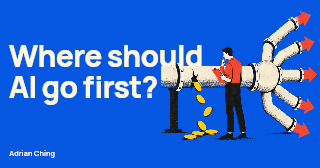
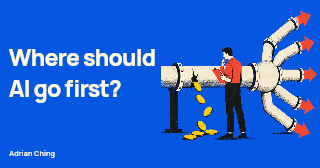
Fit both cover headlines by reducing size only (ADR-462)
Adrian's ADR-460 direction was to reduce the headline font size rather than
change the approved wording. Both covers overran the locked x=583 headline box
at 112px once ADR-461 made the face render as a real ExtraBold 800.

Each cover now uses the largest whole-pixel size at or below 112px for which
every line's measured ink ends at or before x=583:

  AC-033  86px   "Where should" ink right x=579 (87px overruns at x=586)
  AC-034  107px  "bottleneck"   ink right x=582 (108px overruns at x=587)

Wording, weight 800, -3px tracking, origin x=33, baselines y=250/y=366, colour
#fff7df, the author line and the flat #0557e1 field are all unchanged. The
standard keeps 112px as the default and maximum, and now records that approved
wording may take the largest smaller size needed to clear x=583.

verify-ac-034.mjs no longer just reports the overrun. It fails the build if a
line leaves the box, if a cover could have used a larger size, if a renderer,
the tokens or the master SVG disagree on the fitted value, or if the shipped
AC-034 cover has drifted from the exported baseline WebP.

Changed region(s): [[0.0312, 0.2679, 0.6562, 0.4167], [0.0312, 0.4464, 0.5, 0.625]]

diff --git a/scripts/ARTICLES.md b/scripts/ARTICLES.md
@@ -179,7 +179,12 @@ and `verify-ac-034.mjs` is the check that has to pass before a cover ships.
   yellow and vermilion accents over deep navy outlines and shadows.
 - **Typography.** Headline in Manrope ExtraBold 800 at 112px, 116px line height,
   −3px tracking, `#fff7df`, sentence case, at most two lines, origin x=33 with
-  baselines y=250 and y=366. Attribution is `Adrian Ching` in Manrope SemiBold
+  baselines y=250 and y=366. 112px is the default and the maximum. When approved
+  wording overruns the box at 112px, take the size down to the largest whole
+  pixel value that keeps every line's ink at or before x=583, and record that
+  value in the renderer and its provenance. Weight, tracking, colour, origin and
+  baselines never move to force a fit. AC-033 fits at 86px, AC-034 at 107px.
+  Attribution is `Adrian Ching` in Manrope SemiBold
   600 at 27px, +0.5px tracking, origin x=35 baseline y=582, and stays
   subordinate. Typeset the words cleanly; never ship garbled lettering from an
   image generator.
@@ -191,9 +196,10 @@ and `verify-ac-034.mjs` is the check that has to pass before a cover ships.
 - **Composition.** Headline left, a large conceptual illustration right, joined
   by a spacious flat cobalt field. It should read as one designed editorial
   cover. The headline box is x=33 to x=583 and the illustration box starts at
-  x=604. Do not shrink or tighten type to force a fit: if accurate copy cannot
-  fit the box in two lines, return shorter accurate wording for Adrian's
-  approval rather than redesigning the cover.
+  x=604. Never tighten tracking or distort the face to force a fit; reduce the
+  size under the typography rule above instead. If accurate copy cannot fit the
+  box in two lines at a readable size, return shorter accurate wording for
+  Adrian's approval rather than redesigning the cover.
 - **Illustration.** A transparent raster illustration (PNG or WebP with alpha),
   not a hand-coded vector imitation. Bold simplified geometric forms with a
   screen-printed or linocut character, crisp silhouettes, restrained dark
